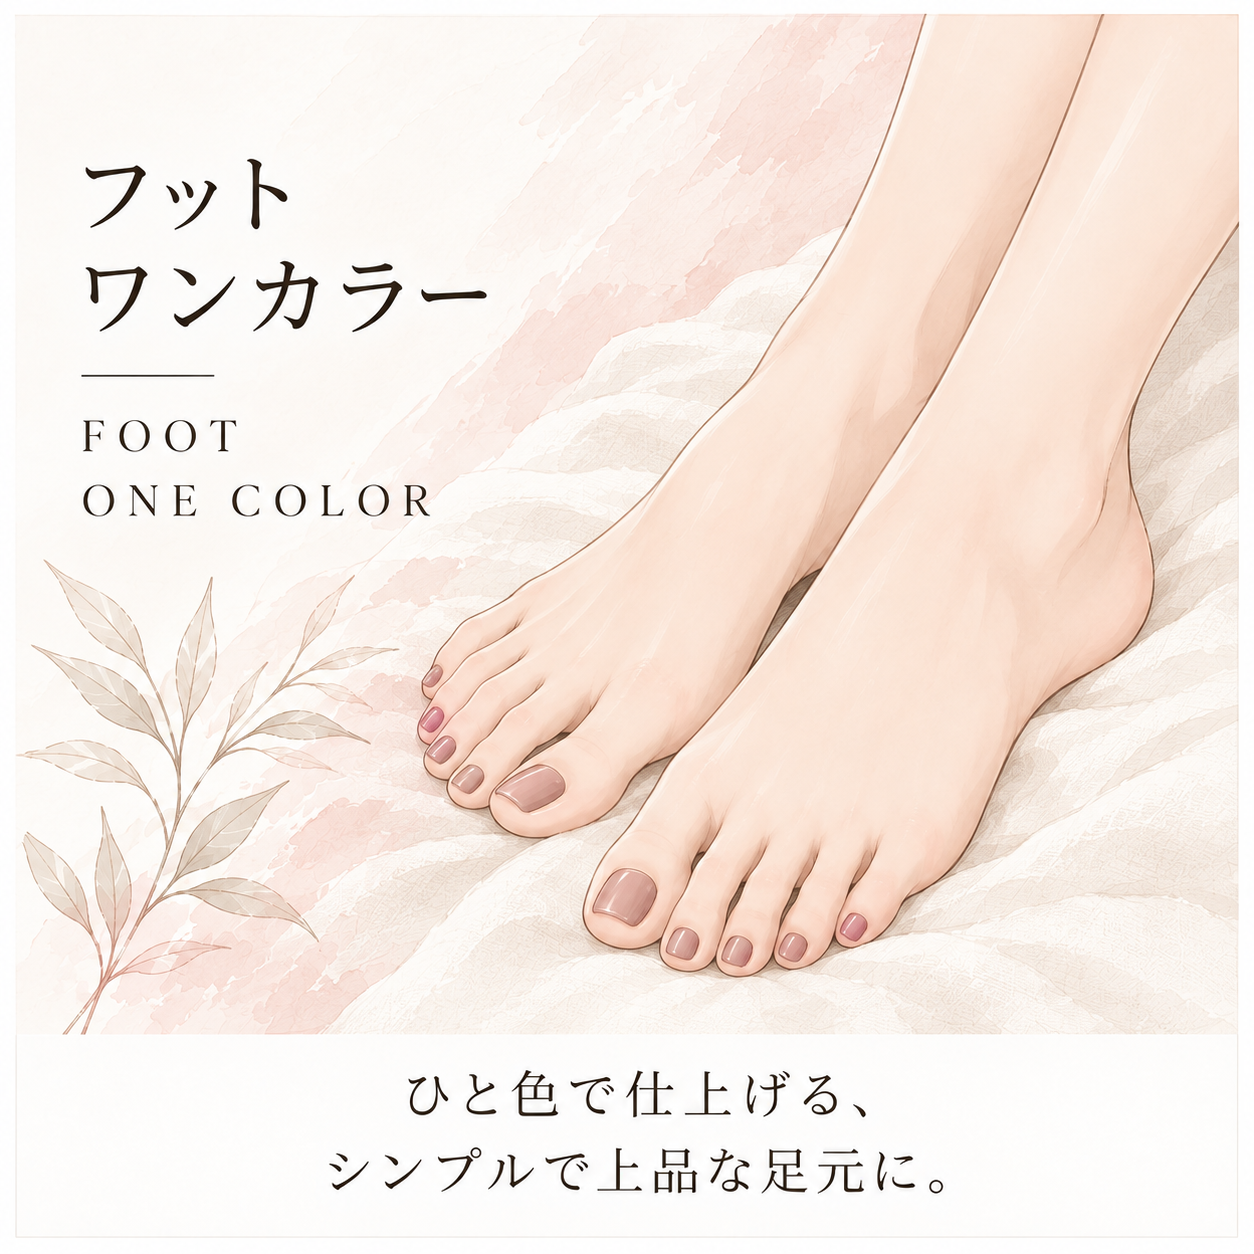
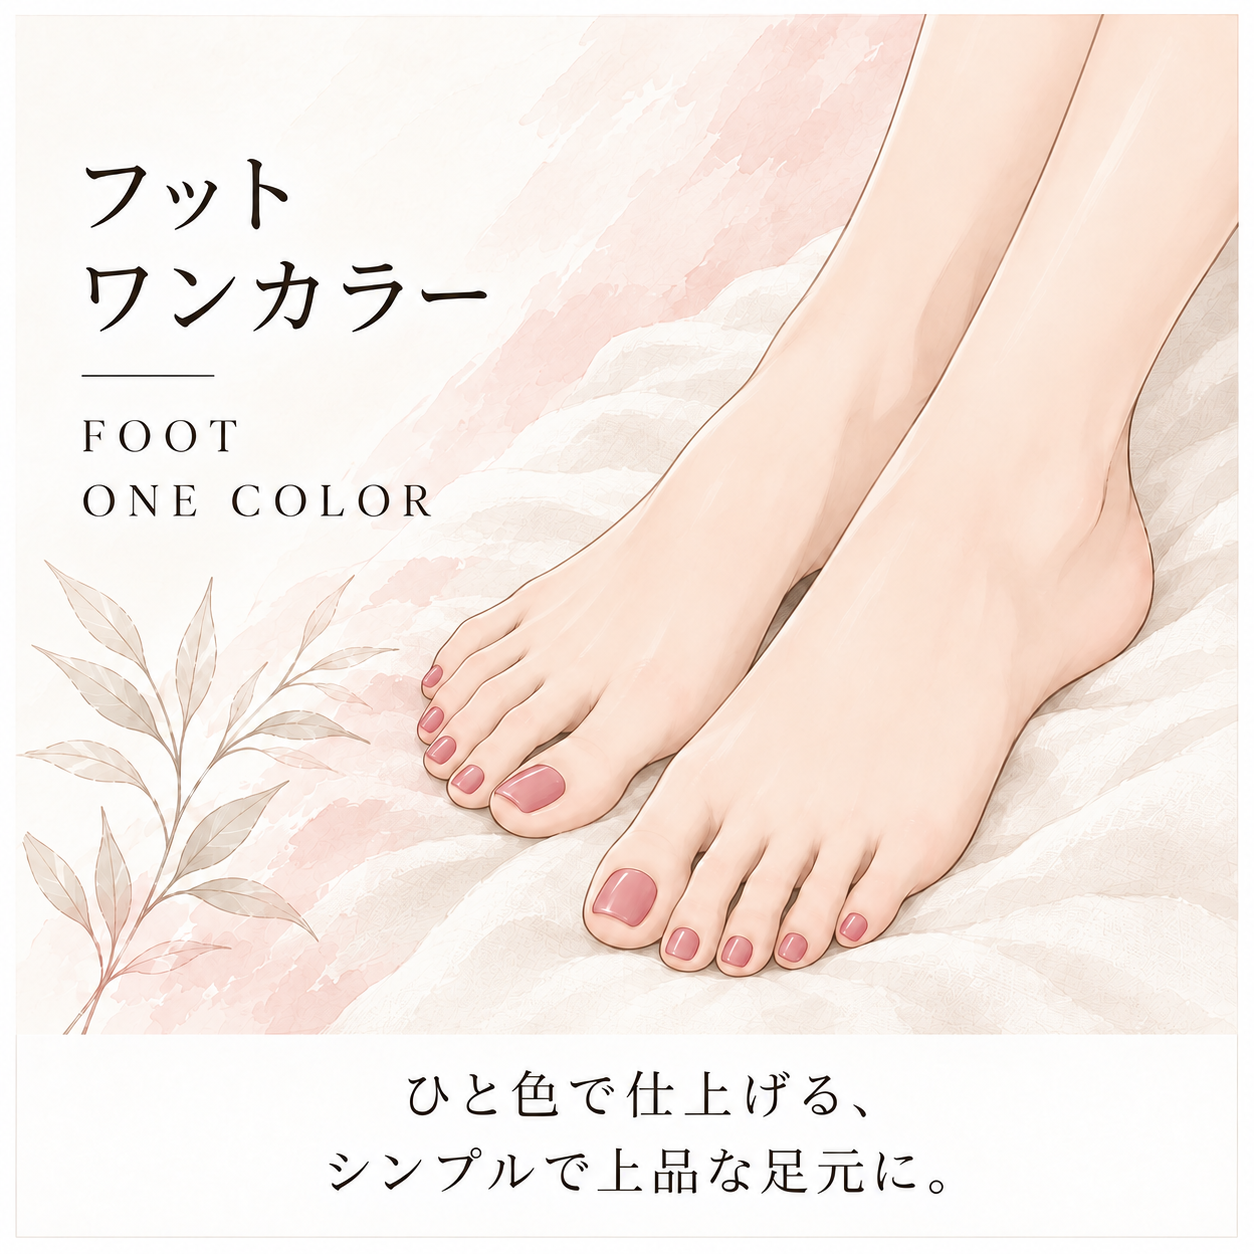
1101

diff --git a/src/data/menu.ts b/src/data/menu.ts
@@ -23,6 +23,7 @@ export interface HairRemovalBodyPart {
   description: string;
   imageKey: string;
   price: string;
+  femalePrice?: string;
   femaleOnly?: boolean;
 }
 
@@ -77,7 +78,7 @@ const vioParts: HairRemovalSubPart[] = [
 
 const body: HairRemovalBodyPart[] = [
   { id: "full-body", name: "全身脱毛", description: "顔・VIOの有無からメニューを選べます。", imageKey: "full-body", price: "1回 9,800円〜（税込）" },
-  { id: "face-all", name: "顔全体", description: "顔全体をまとめてケアするメニューです。", imageKey: "face-all", price: "1回 6,000円（税込）" },
+  { id: "face-all", name: "顔全体", description: "顔全体をまとめてケアするメニューです。", imageKey: "face-all", price: "1回 6,000円（税込）", femalePrice: "1回 5,000円（税込）" },
   { id: "face", name: "顔の部位", description: "両ほほ・もみあげ、鼻下、あご、眉間、眉上、おでこから選べます。", imageKey: "face-all", price: "1回 各2,000円（税込）" },
   { id: "neck", name: "うなじ", description: "うなじのムダ毛をケアします。", imageKey: "neck", price: "1回 3,500円（税込）" },
   { id: "chest", name: "胸", description: "胸まわりのムダ毛をケアします。", imageKey: "chest", price: "1回 5,000円（税込）" },

diff --git a/src/styles/global.css b/src/styles/global.css
@@ -127,6 +127,22 @@ h2 {
   color: #a88f8d;
 }
 
+.nav .header-booking-link {
+  display: inline-flex;
+  min-height: 44px;
+  align-items: center;
+  justify-content: center;
+  padding: 9px 16px;
+  border: 1px solid #cdbdbc;
+  background: var(--warm-white);
+  color: #806c6c;
+}
+
+.nav .header-booking-link:hover,
+.nav .header-booking-link:focus-visible {
+  background: #f4ecea;
+}
+
 .header-sns-link {
   display: inline-flex;
   align-items: center;
@@ -444,6 +460,30 @@ a.btn.btn-outline:hover {
   font-weight: 400;
   letter-spacing: 0.12em;
   text-align: left;
+}
+
+.menu-booking {
+  margin-top: 36px;
+  padding-top: 32px;
+  border-top: 1px solid var(--line);
+}
+
+.menu-booking p {
+  margin: 0 0 16px;
+  color: #756a6a;
+  font-size: 0.85rem;
+}
+
+.menu-booking-link {
+  width: min(100%, 340px);
+  min-width: 0;
+  gap: 10px;
+}
+
+.menu-modal-booking {
+  padding: 24px 30px 30px;
+  border-top: 1px solid var(--line);
+  text-align: center;
 }
 
 .nail-info {

diff --git a/src/data/salon.ts b/src/data/salon.ts
@@ -17,6 +17,9 @@ export const instagramUrl =
 export const lineUrl =
   "https://lin.ee/1ZlvOrl";
 
+export const bookingUrl =
+  "http://b.hpr.jp/kr/hp/H000830521";
+
 // シェアサロン募集状況
 // true = 募集中 / false = 満席
 export const shareSalonRecruiting = true;

diff --git a/README.md b/README.md
@@ -4,7 +4,7 @@ Astroで作成している `twenty one` のデモサイトです。
 
 ## 現在の運用
 
-- 施術メニューは紹介用です。現在、施術予約は受け付けていません。
+- 施術のご予約・空き状況の確認は、HOT PEPPER Beautyへご案内します。
 - シェアサロンの見学・利用相談は受け付けています。
 - シェアサロンの募集状況は `src/data/salon.ts` の `shareSalonRecruiting` で切り替えます。
 
@@ -33,6 +33,11 @@ npm run build
 
 地図は店舗住所の建物位置を確認し、赤いピンが出る座標指定の埋め込みを使用しています。
 住所の表示は `salonAddress`、埋め込み地図は `mapEmbedUrl`、別タブで開く地図は `mapUrl` で変更できます。
+
+予約先は `src/data/salon.ts` の `bookingUrl` で変更できます。
+ヘッダー、メニュー欄の下、メニュー詳細画面に予約リンクを表示します。
+顔全体の脱毛は女性が `1回 5,000円（税込）`、男性が `1回 6,000円（税込）` です。
+女性のみ料金が異なる部位は `src/data/menu.ts` の `femalePrice` で設定し、一覧と詳細画面に共通で反映します。
 
 ## 画像
 
@@ -68,7 +73,8 @@ TOPの「脱毛」カードは、女性のみのイラスト
 6つのメニューカードは正方形の画像表示で揃えています。
 脱毛の詳細で表示する男女別・部位別の画像は、上記の脱毛画像フォルダを使用します。
 
-ネイルのワンカラー・フットワンカラーには、ご指定の手元・足元の画像を使用します。
+ネイルのワンカラーには、両手でカップを持つ淡い水彩イラストを使用します。
+フットワンカラーは、ハンドと同じくすみピンクのネイルカラーに揃えた足元のイラストを使用します。
 画像内に料金は入れず、カードと詳細画面にそれぞれ `1回 5,500円（税込）` を表示します。
 ネイルオフも `1,500円（税込）` の形式で表示し、自店オフ（付け替え）は `無料` です。
 
